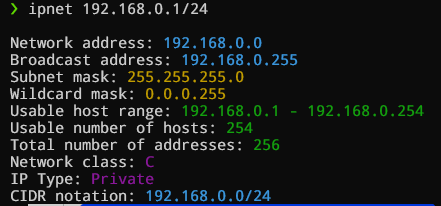
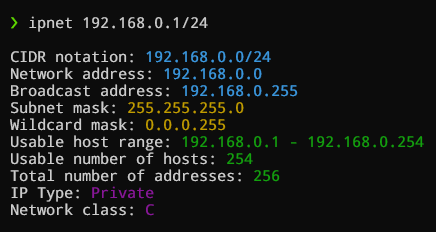
Updated

Changed region(s): [[0.0, 0.1748, 0.9839, 1.0], [0.0, 0.0, 0.4771, 0.1456], [0.656, 0.4951, 0.9839, 0.6408]]

diff --git a/src/ipnet/ipnet.py b/src/ipnet/ipnet.py
@@ -62,9 +62,9 @@ class NetworkInfo:
         Print network information.
         """
         init()  # Initialize colorama
-        print(f"CIDR notation: {Fore.CYAN}{self.network}{Style.RESET_ALL}")
+        print(f"\nCIDR notation: {Fore.CYAN}{self.network}{Style.RESET_ALL}")
         print(
-            f"\nNetwork address: {Fore.CYAN}{self.network.network_address}{Style.RESET_ALL}"
+            f"Network address: {Fore.CYAN}{self.network.network_address}{Style.RESET_ALL}"
         )
         print(
             f"Broadcast address: {Fore.CYAN}{self.network.broadcast_address}{Style.RESET_ALL}"
@@ -84,10 +84,11 @@ class NetworkInfo:
         print(
             f"Total number of addresses: {Fore.GREEN}{self.network.num_addresses}{Style.RESET_ALL}"
         )
-        print(f"Network class: {Fore.MAGENTA}{self.network_class}{Style.RESET_ALL}")
         print(
             f'IP Type: {Fore.MAGENTA}{"Private" if self.network.is_private else "Public"}{Style.RESET_ALL}'
         )
+        print(f"Network class: {Fore.MAGENTA}{self.network_class}{Style.RESET_ALL}")
+        print()
 
 
 class NetworkValidator:

diff --git a/tests/test_ipnet.py b/tests/test_ipnet.py
@@ -4,7 +4,7 @@ This module contains tests for the ipnet module.
 
 import ipaddress
 import pytest
-from src.ipnet import CustomArgumentParser, NetworkInfo, NetworkValidator
+from src.ipnet.ipnet import CustomArgumentParser, NetworkInfo, NetworkValidator
 
 
 def test_custom_argument_parser():

diff --git a/CHANGELOG.md b/CHANGELOG.md
@@ -11,6 +11,8 @@ All changes to this project will be documented in this file.
 ### Changed
 - Transitioned from traditional `setup.py` to `pyproject.toml` for modern project management.
 
+[0.1.1]: https://github.com/nicanorflavier/ipnet/releases/tag/v0.1.1
+
 ## [0.1.0] - 27-05-2024
 
 ### Added
